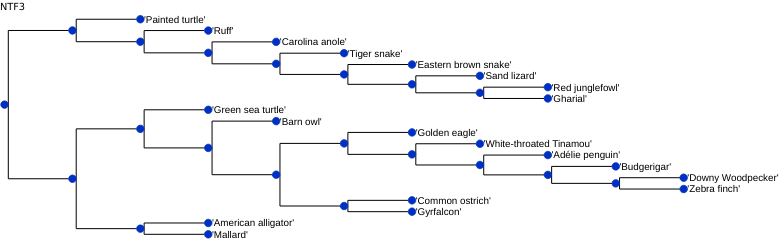
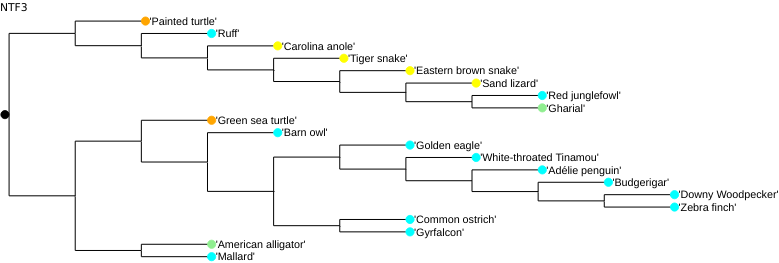
Improved aesthetics of the tree

diff --git a/Final/output_tree.py b/Final/output_tree.py
@@ -8,10 +8,34 @@ def output_tree (the_tree, name, filename):
     style.show_scale = False
     style.scale = 80
 
-    nstyle = NodeStyle()
-    nstyle['size'] = 10
+
+    birds = ["'Red junglefowl'", "'Downy Woodpecker'", "'Barn owl'",
+    "'Ruff'", "'Zebra finch'", "'White-throated Tinamou'", "'Budgerigar'",
+    "'Adélie penguin'", "'Golden eagle'", "'Gyrfalcon'", 
+    "'Common ostrich'", "'Mallard'", "'A'"]
+    squamates = ["'Sand lizard'","'Tiger snake'","'Eastern brown snake'","'Carolina anole'",]
+    crocadillians = ["'American alligator'", "'Gharial'","'C'"]
+    turtles = ["'Green sea turtle'", "'Painted turtle'","'D'"]
 
     for n in t.traverse():
+        nstyle = NodeStyle()
+        nstyle['size'] = 10
+        if n.is_leaf():
+            leafname = str(n.name)
+            if leafname in birds:
+                nstyle["fgcolor"] = "aqua"
+            elif leafname in squamates:
+                nstyle["fgcolor"] = "yellow"
+            elif leafname in crocadillians:
+                nstyle["fgcolor"] = "lightgreen"
+            elif leafname in turtles:
+                nstyle["fgcolor"] = "orange"
+        else:
+            nstyle['fgcolor'] = 'black'
+            nstyle['size'] = 0
+            if n.is_root():
+                nstyle['size'] = 10
+
         n.set_style(nstyle)
 
     t.render(filename, tree_style=style, w=220, units="mm")

diff --git a/Final/main.py b/Final/main.py
@@ -29,9 +29,10 @@ def main():
         "agilis": "Sand lizard",
         "adeliae": "Adélie penguin",
         "camelus": "Common ostrich",
-        "alba": "Western barn owl",
+        "alba": "Barn owl",
         "gangeticus": "Gharial",
         "textilis": "Eastern brown snake",
+        "pubescens": "Downy Woodpecker"
     }
 
     distances_dest = "output/distances/"
